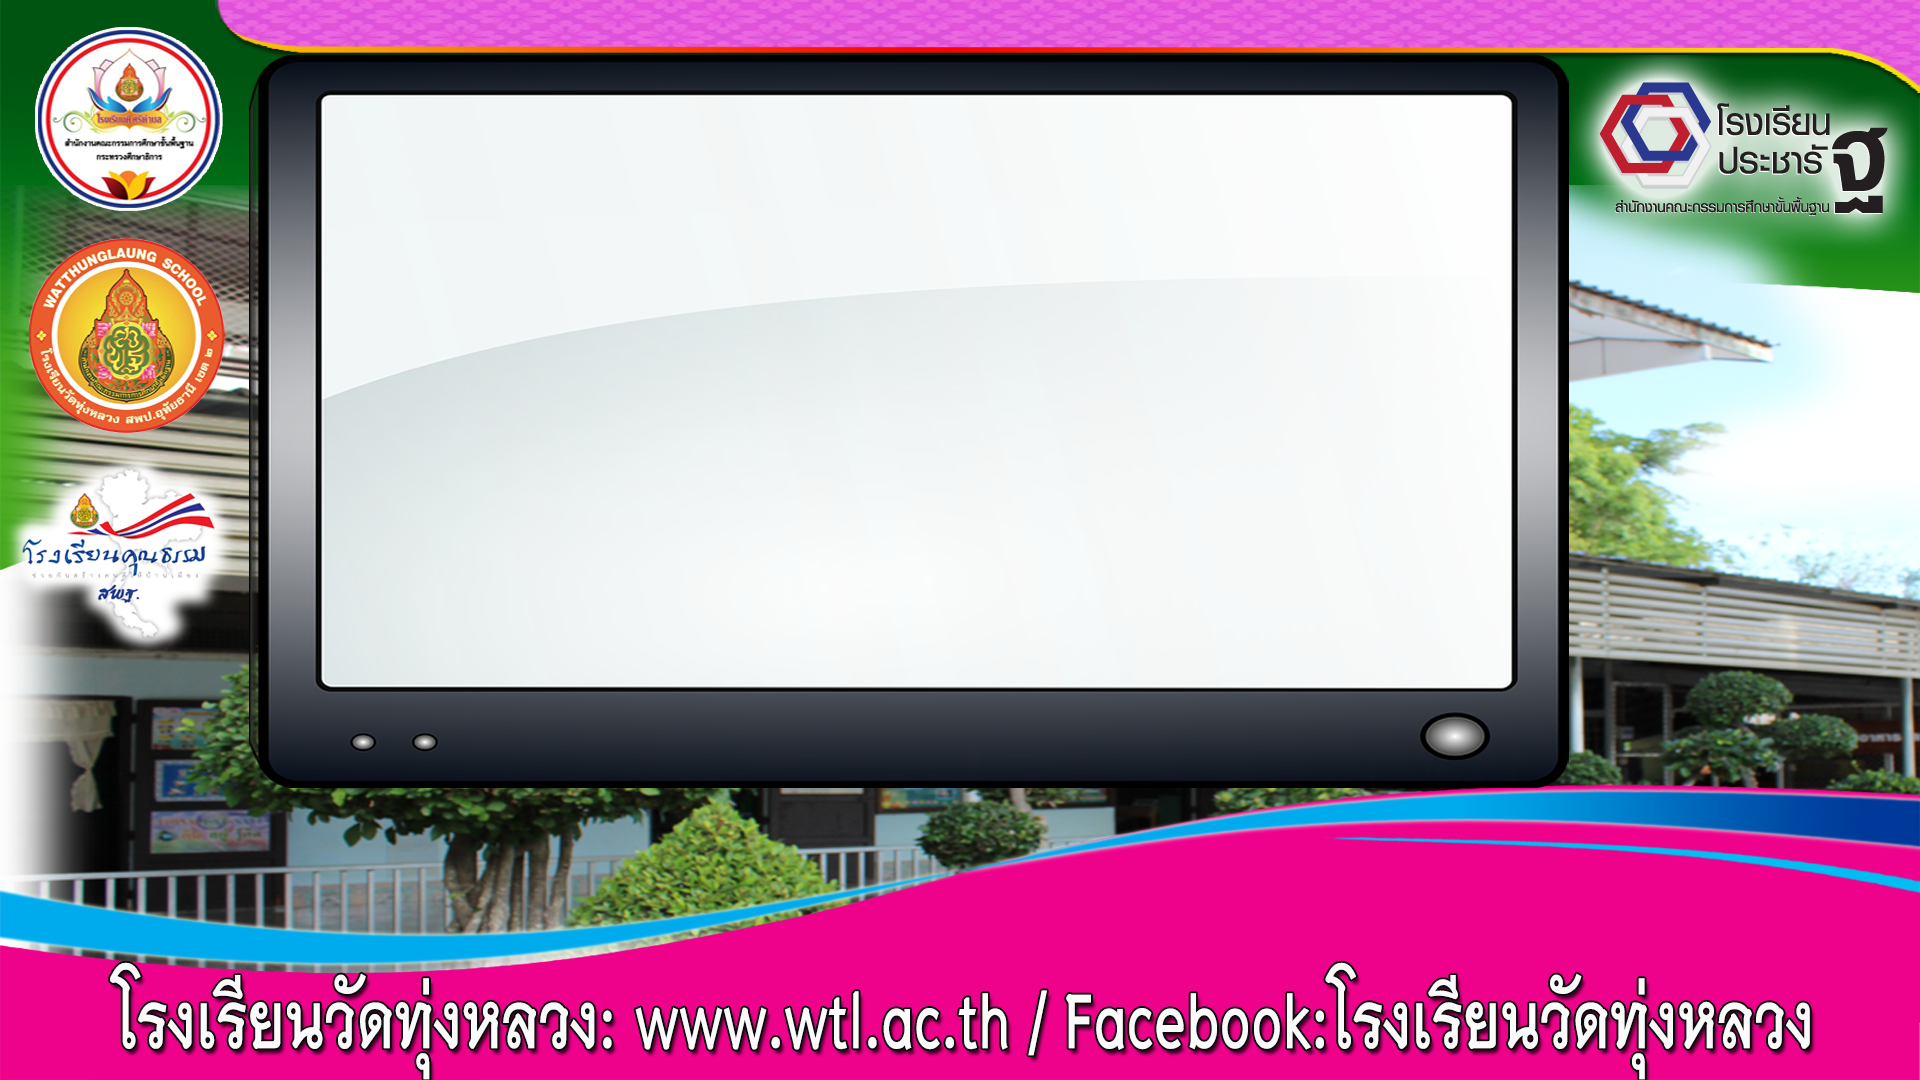
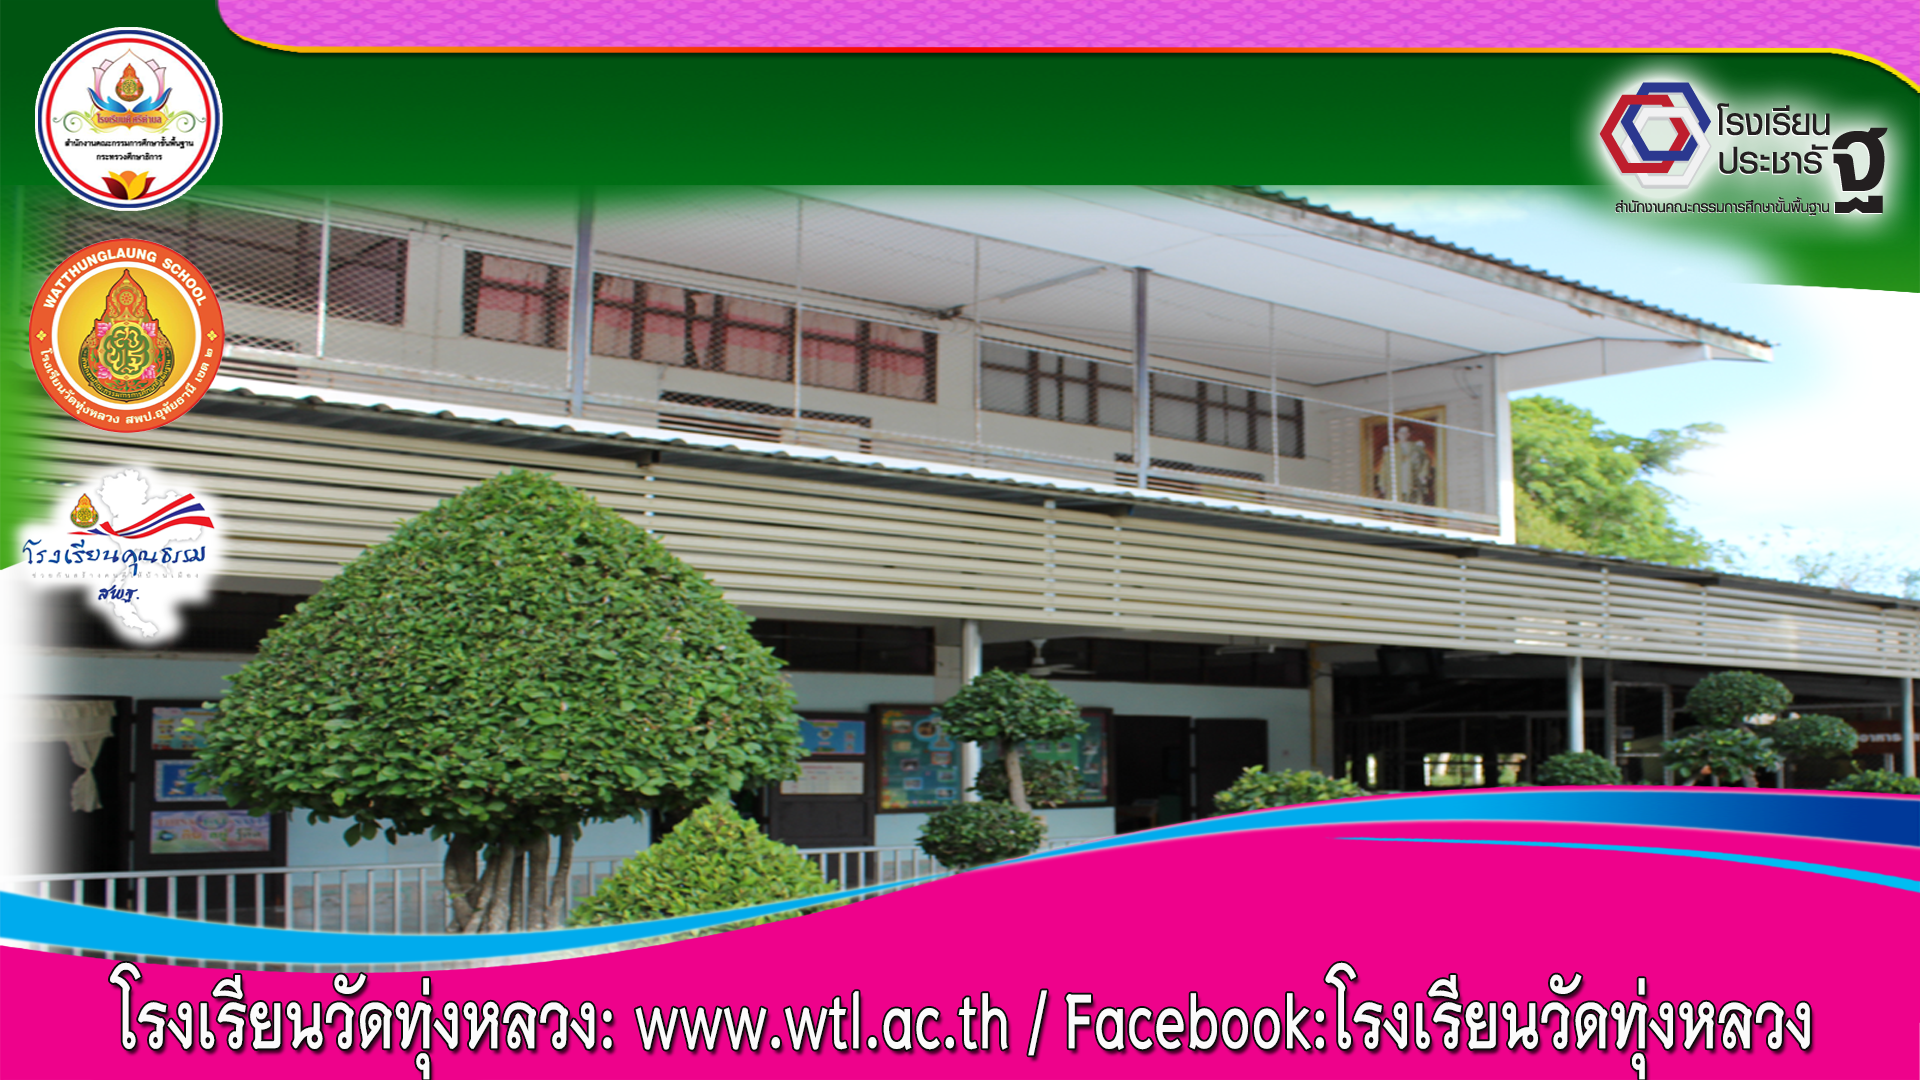
fix video with frame of iframe

diff --git a/index.html b/index.html
@@ -9,19 +9,18 @@
     <link rel="stylesheet" href="https://maxcdn.bootstrapcdn.com/bootstrap/4.0.0-alpha.6/css/bootstrap.min.css" integrity="sha384-rwoIResjU2yc3z8GV/NPeZWAv56rSmLldC3R/AZzGRnGxQQKnKkoFVhFQhNUwEyJ" crossorigin="anonymous">
     <link href="css/style.css" rel="stylesheet">    
   </head>
-  <body>
+  <body id="bodyy">
       <div class="container-fluid ">
             <div id="screen_area" class="row mx-auto" >
-                  <div id="logodiv" class="col-xs-1 col-sm-1 col-md-1 col-lg-1 " >
- 
-                  </div>
-
-                  <div id="vid_col" class="col-xs-10 col-sm-10 col-md-10 col-lg-10" >
-                        <iframe  id="video" src="https://www.youtube.com/embed/sE0lhyDMIhI?autoplay=1&loop=1&playlist=sE0lhyDMIhI" frameborder="0" allowfullscreen ></iframe>  
-                  </div>
-                  <div id="logodiv" class="col-xs-1 col-sm-1 col-md-1 col-lg-1 " >
-      
-                  </div>                  
+            <div id="frame">
+                  
+                
+                  <div id="vid_col" class="col-xs-12 col-sm-12 col-md-12 col-lg-12" >
+                    
+                          <iframe  id="video" src="https://www.youtube.com/embed/sE0lhyDMIhI?autoplay=1&loop=1&playlist=sE0lhyDMIhI" frameborder="0" allowfullscreen ></iframe>
+                    </div>        
+                  
+          </div>                         
             </div> 
       </div>
               <div  id="marquee_row">
@@ -55,11 +54,14 @@
 
           var text_marquee = document.getElementById("text_marquee");
           var video=document.getElementById("video");
+          var screen=document.getElementById("frame");
           var marquee = document.getElementById("marquee_row");
-          var vid_aspect=0.51,font_aspect=0.045;
+
+          var vid_aspect=0.51,font_aspect=0.08;
           var time_marquee = text_marquee.innerHTML.length*0.23;
           video.style.height=(video.offsetWidth*vid_aspect)+'px';
-          marquee.style.fontSize=(width*font_aspect)+'px';
+          screen.style.height=(screen.offsetWidth*vid_aspect)+'px';
+          marquee.style.fontSize=(width*font_aspect*0.5625)+'px';
           text_marquee.style.animation='marquee '+time_marquee+'s linear infinite' ;
         };
     </script>

diff --git a/css/style.css b/css/style.css
@@ -31,43 +31,39 @@ body {
 
 }
 
+#frame{
+    margin-top: 2%;
+    margin-left: 9% ;
+    background-image: url("../images/1.png");
+    background-repeat: no-repeat;
+    background-position: center; 
+    background-size: cover;
+    width: 76%;
+    position: relative;
+}
+
+#screen_area{
+  margin-top: 3%;
+}
+
 p {
     font-family:THSarabunNewBold;
 }
 
-#screen_area {
-	/*margin-top: 2pc;*/
-    /*margin-bottom: 4.5pc;*/
-	position: relative;
-/*	margin-left: 1%;
-	margin-right: 7%;*/
-	width:100%;
-	height:100%;
-
-}
-
-
-img {
-    position: relative;
-	margin-top: 20%;
-	margin-bottom: 2%;
-    /*margin-right: 1%;*/
-	width:100%;
-	height:width;
-}
 
 #video{
 	position: relative;
-	margin-top: 5.95%;
-    margin-left: 8%;
-    width: 78.5%;
+	margin-top: 2.6%;
+    margin-left: 9%;
+    width: 83.5%;
+
     
 /*	width:100%;
 	height:100%;*/
 }
 
 #marquee_row{
-	margin-top:6%;
+	/*margin-top:6%;*/
 }
 
 .marquee {
